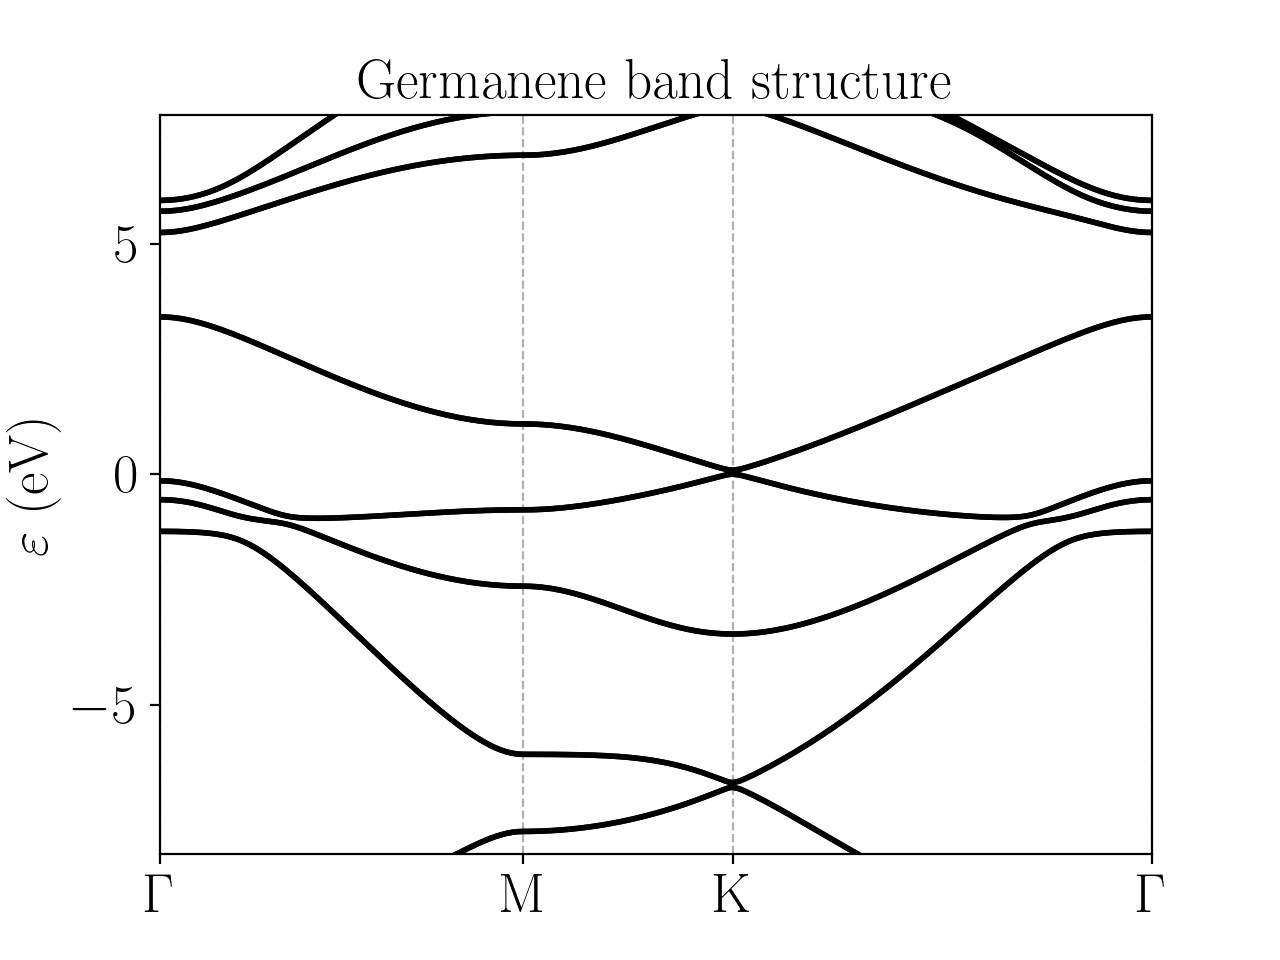
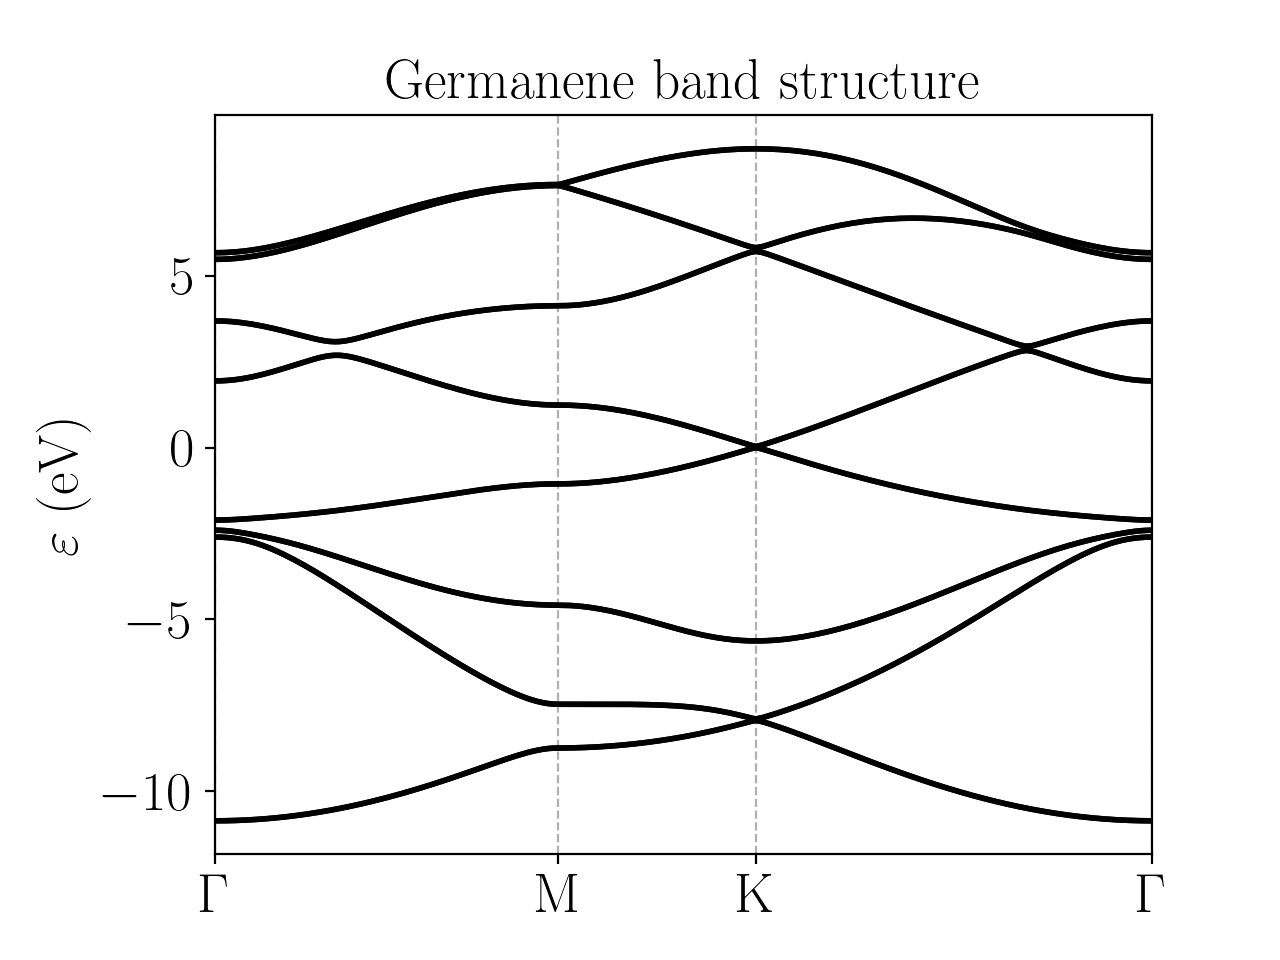
Added stanene doc
Also updated germanene

diff --git a/docs/source/materials/materials/stanene.rst b/docs/source/materials/materials/stanene.rst
@@ -1,18 +1,17 @@
-Germanene
+Stanene
 =========================
 
-Germanene is a material analog to graphene, but with germanium atoms instead of carbon. The structure is also buckled (meaning that each atom of the motif lies on a different :math:`z` plane).
-The Slater-Koster model used here consists of :math:`s, p_x, p_y, p_z` orbitals, and also includes spin-orbit coupling [Hattori2017]_. The electronic band structure of germanene is:
+Stanene is a two-dimensional material analogue to graphene, germanene or silicine. It consists of lead atoms on a buckled honeycomb lattice. The Slater-Koster model used for its description consists of :math:`s, p_x, p_y, p_z` orbitals together
+with spin-orbit coupling, and the corresponding parameters are taken from [Hattori2017]_. The band structure obtained is:
 
-.. image:: ../plots/germanene_bands.png
+.. image:: ../plots/stanene_bands.png
     :width: 640
     :align: center
 
-
-The corresponding configuration file:
+The configuration file for this model is:
 
 .. code-block::
-    :caption: examples/germanene.txt
+    :caption: examples/stanene.txt
 
     ! --------------------- Config file formatting rules ---------------------
     ! Lines starting with ! are comments
@@ -23,7 +22,7 @@ The corresponding configuration file:
     ! -------------------------- Material parameters -------------------------
     #System name
     ! Parameters taken from 
-    Germanene
+    Stanene
 
     #Dimensionality
     2
@@ -31,8 +30,8 @@ The corresponding configuration file:
     #Bravais lattice
     ! Each row corresponds to one vector of the basis (vectors have to be in R^3)
     ! For 1D and 2D systems, the z (third) component must be zero (z should always be regarded as height component)
-    3.48142212 2.01 0.0
-    3.48142212 -2.01 0.0
+    4.07032 2.35 0.0
+    4.07032 -2.35 0.0
 
     #Species
     ! Number of atomic species.
@@ -42,7 +41,7 @@ The corresponding configuration file:
     ! Each row corresponds to one vector of the basis; fourth number denotes atomic species
     ! Numbering of species starts at 0.
     0 0 0 0
-    2.3209481 0 -0.687496 0
+    2.713546 0 -0.8347958 0
 
     #Orbitals
     ! Always use cubic harmonic orbitals
@@ -58,7 +57,7 @@ The corresponding configuration file:
     #Onsite energy
     ! One for each different orbital defined above.
     ! In case of having several atomic species multiple line must be specified, one for each element.
-    -7.9 -1.16 -1.16 -1.16
+    -9.00 -3.39 -3.39 -3.39
 
     #SK amplitudes
     ! Order is fixed: Vsss, Vsps, Vpps, Vppp, Vsds, Vpds, Vpdp, Vdds, Vddp, Vddd (separated by spaces).
@@ -66,7 +65,7 @@ The corresponding configuration file:
     ! The syntax for SK amplitudes allows to specify between which species are the hoppings, as well as
     ! which is the corresponding neighbour. 
     ! Syntax is: [species1, species2; n-th neighbour] V1 V2 ...
-    [0, 0] -1.79 2.36 4.15 -1.04
+    [0, 0] -2.6245 2.6504 1.4926 -0.7877
 
     #Spin
     ! Determine whether the model is spinless (spin polarized) or spinful.
@@ -77,7 +76,7 @@ The corresponding configuration file:
     #Spin-orbit coupling
     ! Note: Using a non-zero value will automatically produce a spinful model.
     ! Amplitude must be specified for all species; one line per species.
-    0.588
+    1.2
 
     ! --------------------- Simulation parameters ---------------------
     #Mesh
